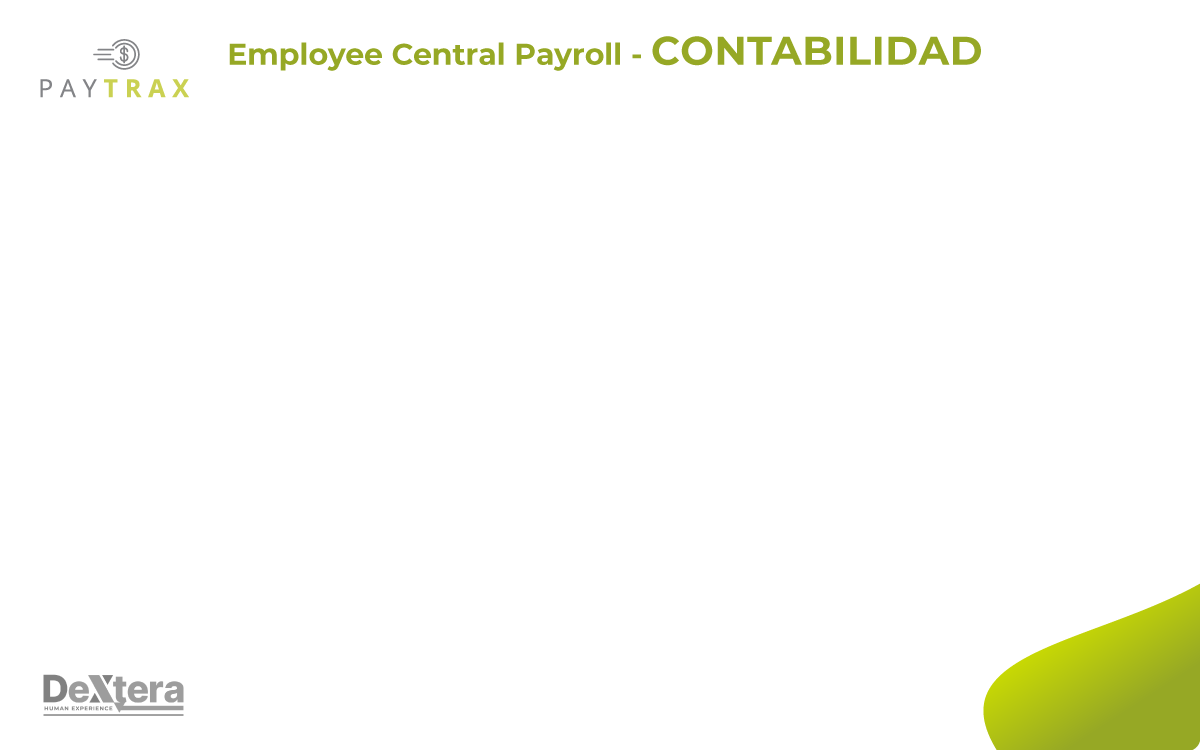
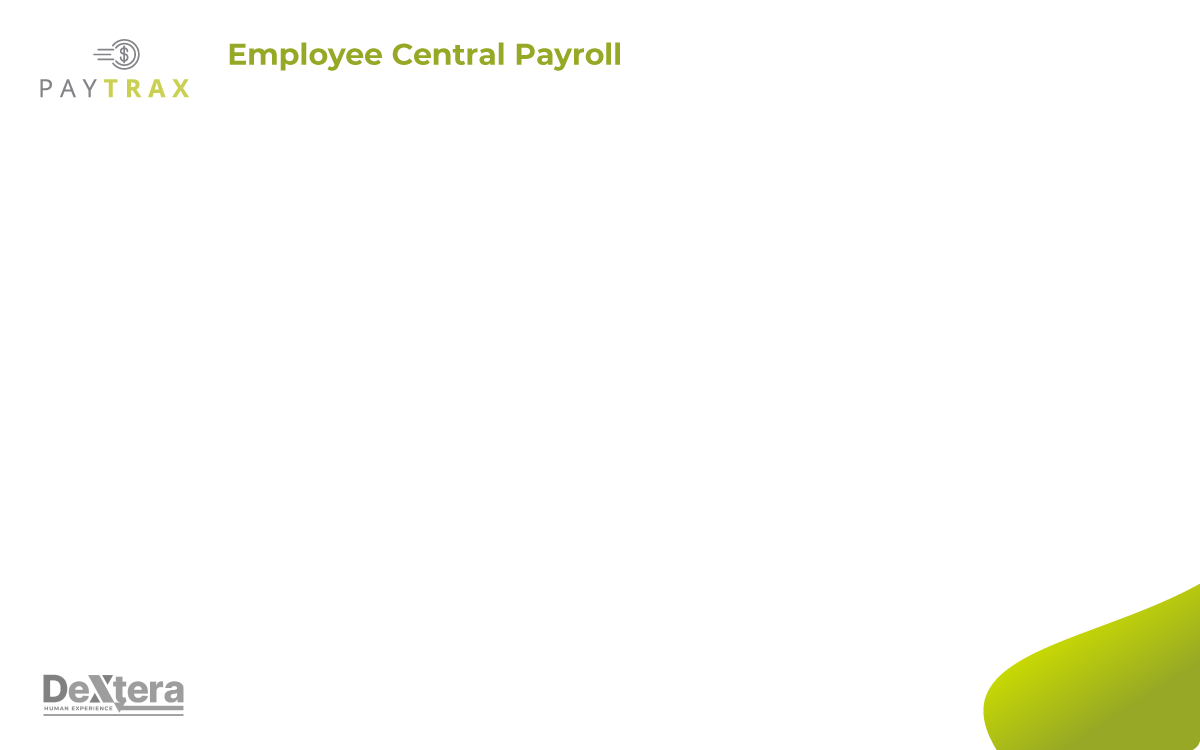
06

Changed region(s): [[0.5242, 0.0307, 0.8325, 0.092]]

diff --git a/Traxion/Contable/index.html b/Traxion/Contable/index.html
@@ -94,7 +94,7 @@
             <div id="temarioTitle"><span>TEMARIO</span></div>
             <div id="items">
 
-                <div class="tema"><span>Employee Central Payroll - CONTABILIDAD</span></div>
+                <div class="tema"><span>Employee Central Payroll</span></div>
                 <div id="item1" _ID="0" class="linkPage"><i class="fa fa-square-o"></i><span>Bienvenida</span></div>
                 <div id="item2" _ID="1" class="linkPage"><i class="fa fa-square-o"></i><span>Guía de navegación</span></div>
                 <!-- <div id="item3" _ID="2" class="linkPage"><i class="fa fa-square-o"></i><span>Menú</span></div> -->
